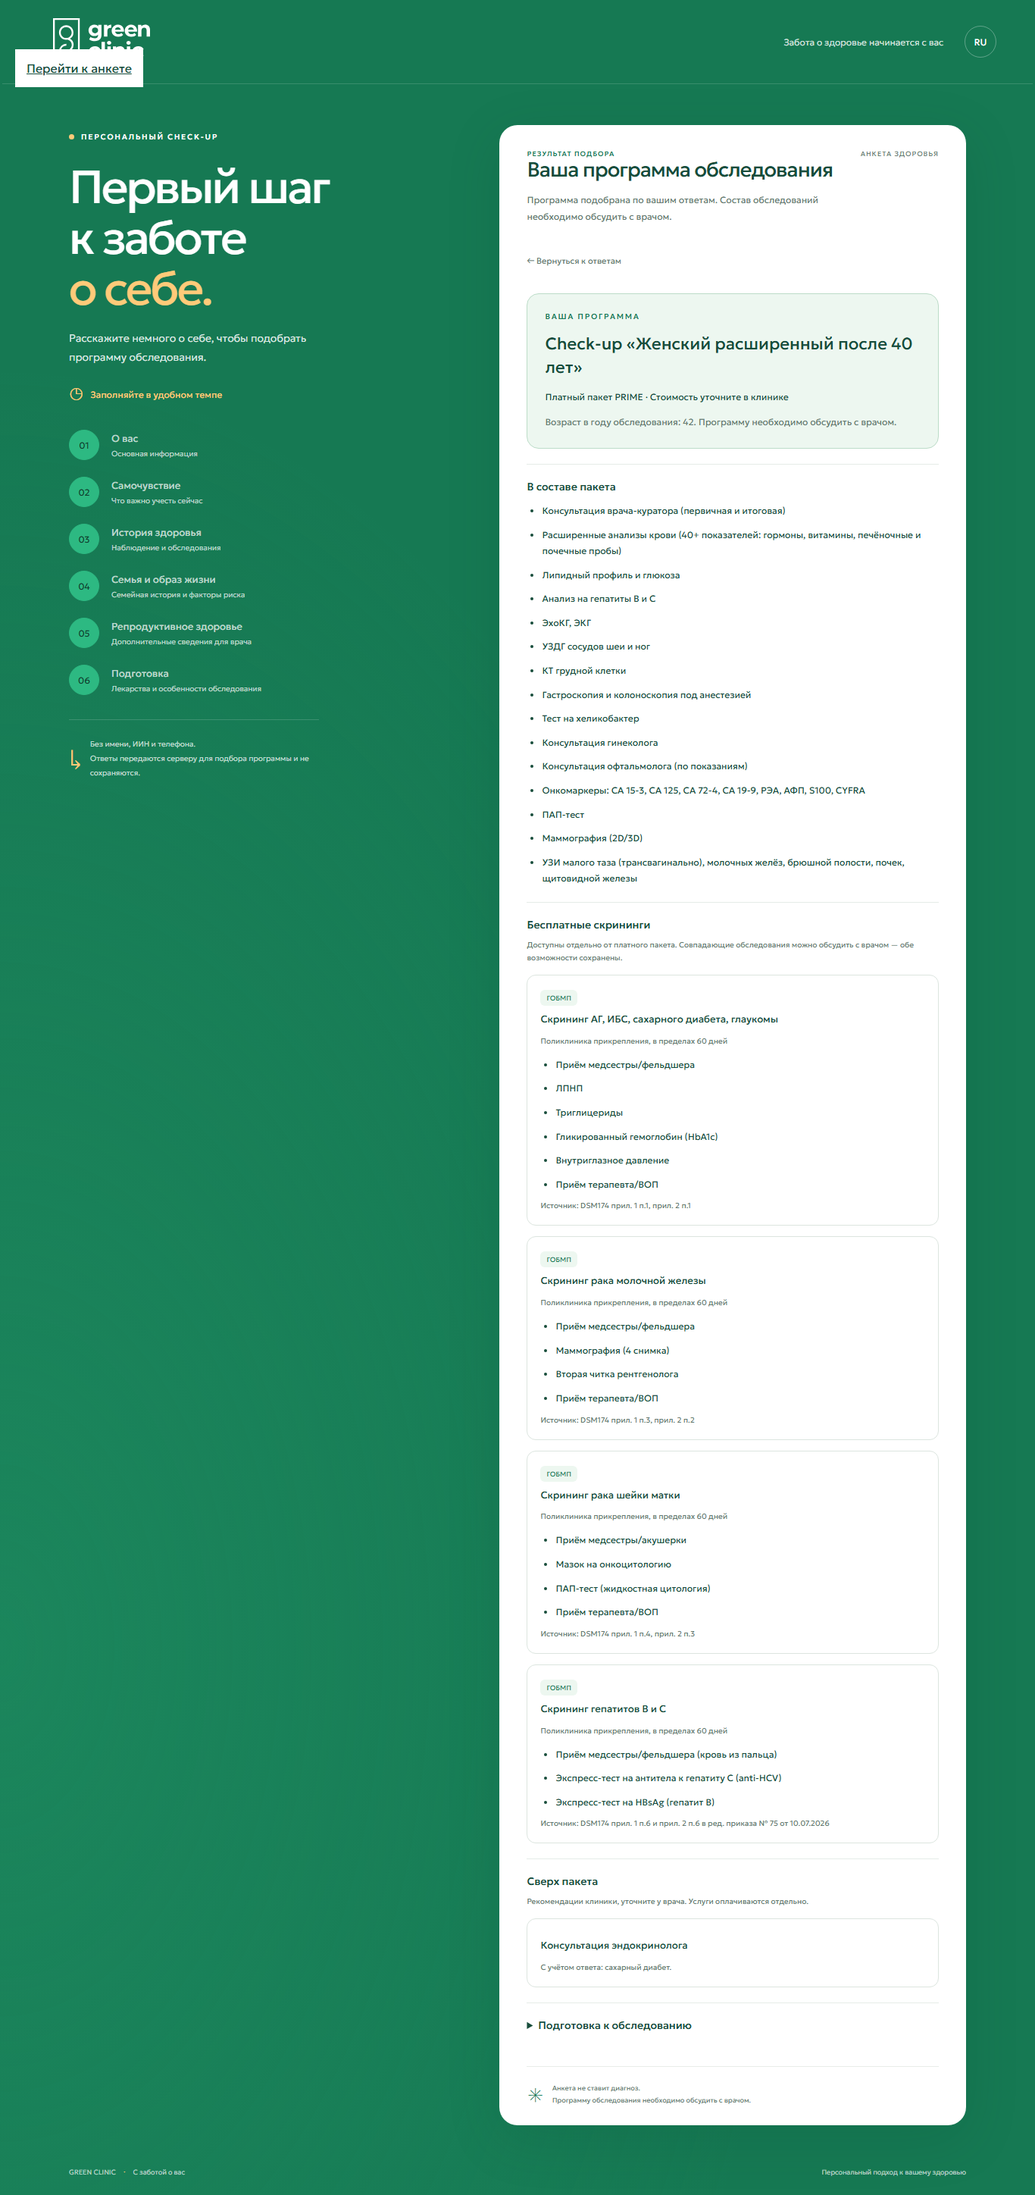
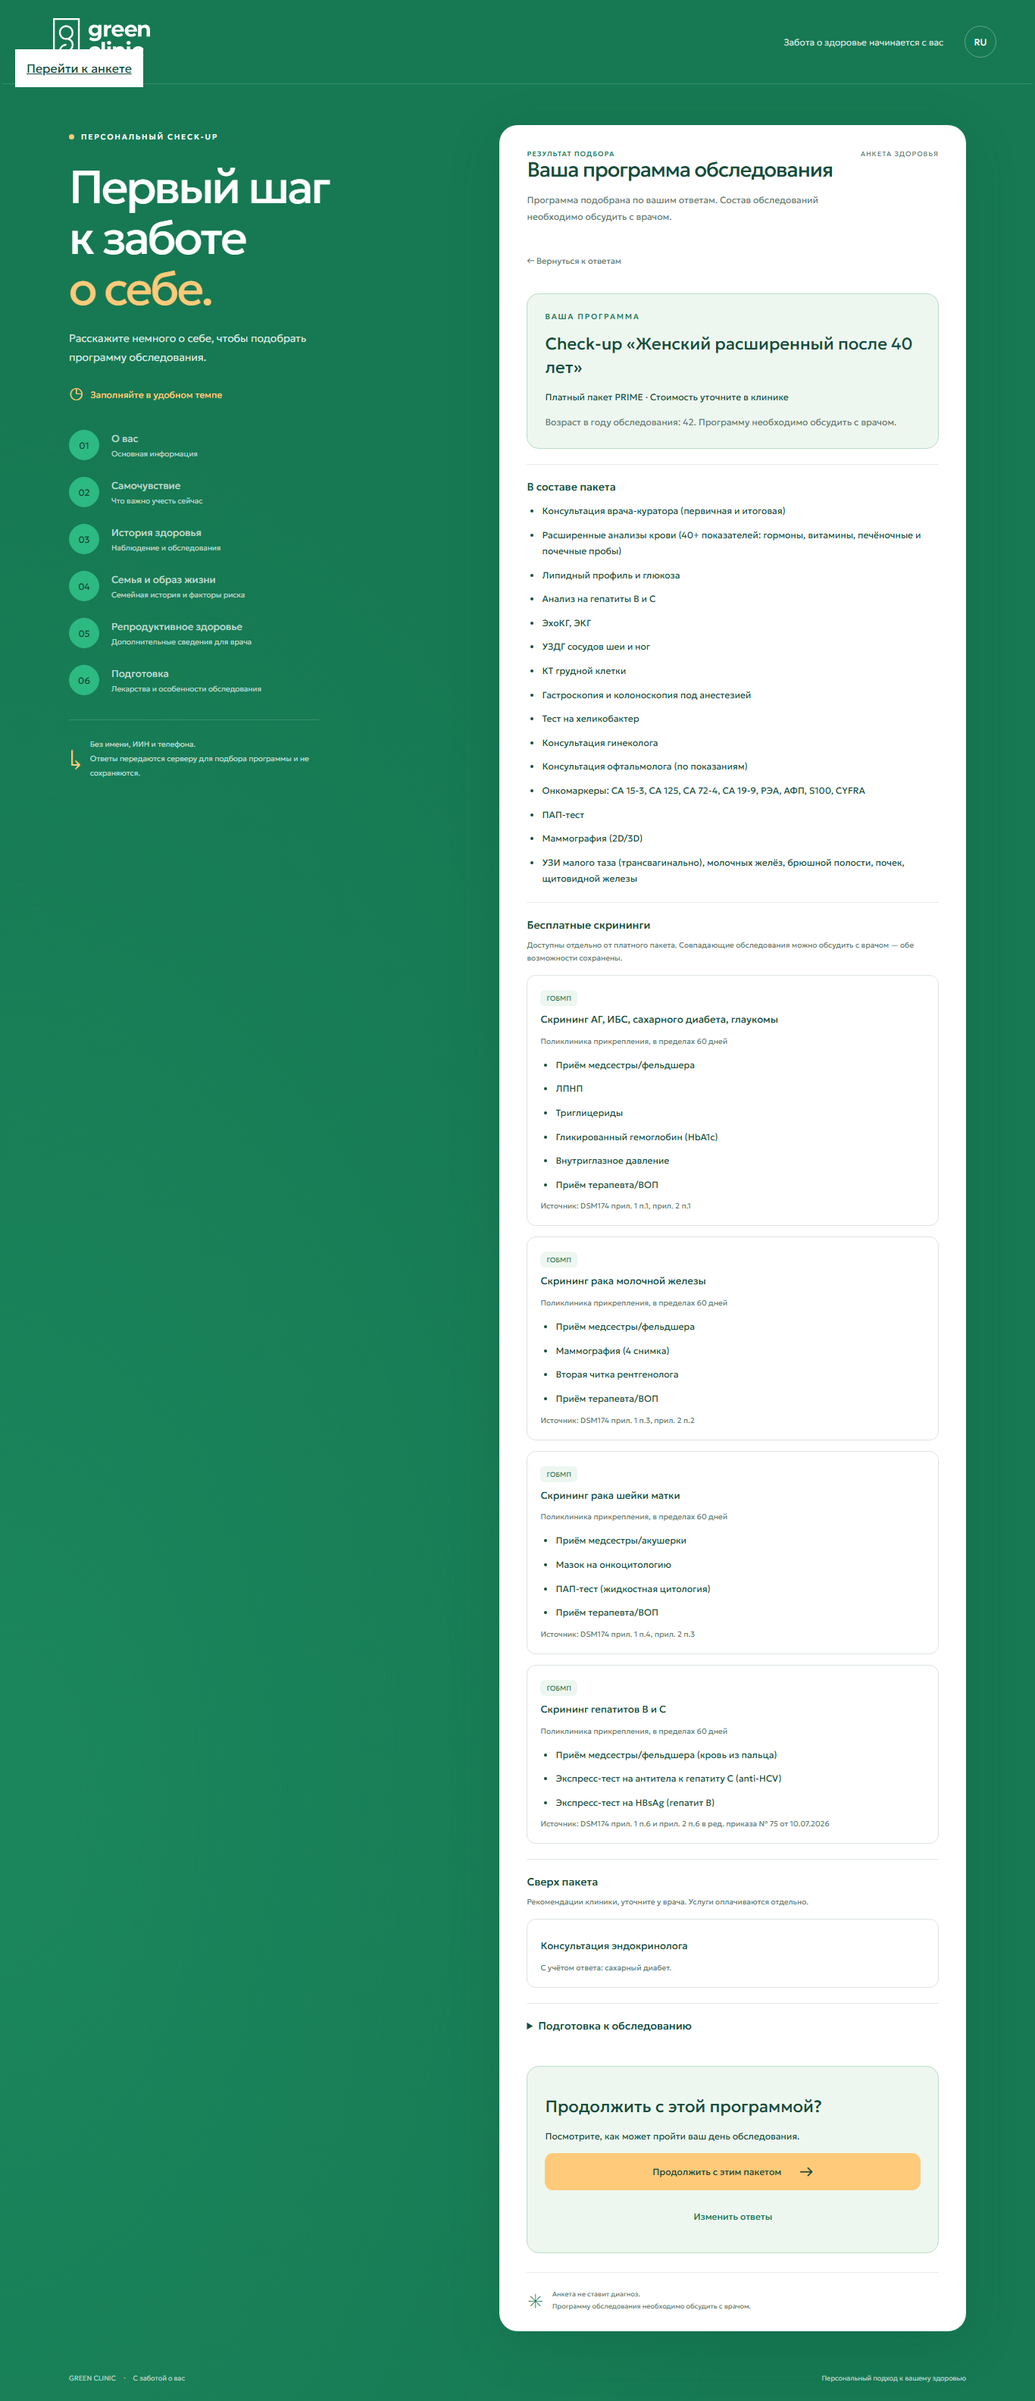
added the plan for the day after the package selection

Changed region(s): [[0.4919, 0.0, 0.9224, 0.9634], [0.0307, 0.0, 0.3075, 0.3419], [0.7687, 0.9634, 0.9224, 0.9945]]

diff --git a/app/static/app.js b/app/static/app.js
@@ -14,6 +14,7 @@ let fields = [];
 let answers = {};
 let step = 0;
 let submitting = false;
+let recommendation = null;
 const escapeHtml = (value) => String(value).replace(/[&<>"']/g, (c) => ({'&':'&amp;', '<':'&lt;', '>':'&gt;', '"':'&quot;', "'":'&#39;'}[c]));
 const year = () => Number(answers.checkup_year || new Date().getFullYear());
 const birthYear = () => answers.birth_date ? Number(answers.birth_date.slice(0, 4)) : undefined;
@@ -80,6 +81,10 @@ function renderField(field) {
   return `<${tag} class="field" data-name="${field.name}">${input}${hint ? `<p class="hint" id="${id}-hint">${escapeHtml(hint)}</p>` : ''}</${tag}>`;
 }
 function render(focus = false) {
+  recommendation = null;
+  $('itinerary-screen').hidden = true;
+  $('itinerary-content').replaceChildren();
+  $('package-confirmation').hidden = true;
   $('results-screen').hidden = true;
   $('recommendation').hidden = true;
   $('recommendation').replaceChildren();
@@ -168,6 +173,51 @@ $('results-back').addEventListener('click', () => {
   render(true);
   $('form-panel').scrollIntoView({ block: 'start' });
 });
+$('package-edit').addEventListener('click', () => $('results-back').click());
+$('itinerary-back').addEventListener('click', showResultsScreen);
+$('package-proceed').addEventListener('click', () => {
+  if (!recommendation?.package || recommendation.red_flags.length || !recommendation.itinerary?.length) return;
+  const data = recommendation;
+  const matchesExams = (instruction, exams) => exams.some((exam) => instruction.match.some((word) => exam.toLocaleLowerCase('ru').includes(word.toLocaleLowerCase('ru'))));
+  const preparation = (data.preparation || []).filter((instruction) => matchesExams(instruction, data.package.exams));
+  const advancePreparation = preparation.filter((instruction) => ['now', 'eve'].includes(instruction.day));
+  $('itinerary-content').innerHTML = `<div class="package-card"><span class="eyebrow">ВЫ ВЫБРАЛИ</span><h3>${escapeHtml(data.package.name)}</h3><p>Маршрут включает обследования выбранного пакета. Бесплатные скрининги и услуги сверх пакета согласуются отдельно.</p></div>` +
+    (preparation.length ? '<p class="prep-timing-note">Подготовьтесь до визита: инструкции указаны ниже и у соответствующих этапов. Время процедур и подготовки согласуйте с клиникой — часы в этом маршруте примерные.</p>' : '') +
+    (advancePreparation.length ? `<section class="advance-preparation" aria-labelledby="advance-preparation-title"><h3 id="advance-preparation-title">Что сделать заранее</h3>${renderPreparation(advancePreparation)}</section>` : '') +
+    '<ol class="day-route">' + data.itinerary.map((stop, index) => {
+      const instructions = preparation.filter((instruction) => instruction.day === 'after'
+        ? index === data.itinerary.length - 1 : matchesExams(instruction, stop.exams));
+      return `<li class="route-stop"><span class="route-time">${escapeHtml(stop.time)}</span><div><h3>${escapeHtml(stop.title)}</h3><p class="route-location">${escapeHtml(stop.location)}</p>${renderPreparation(instructions)}${stop.exams.length ? `<ul class="exam-list">${stop.exams.map((exam) => `<li>${escapeHtml(exam)}</li>`).join('')}</ul>` : ''}${stop.note ? `<p class="hint">${escapeHtml(stop.note)}</p>` : ''}</div></li>`;
+    }).join('') + '</ol>';
+  $('results-screen').hidden = true;
+  $('itinerary-screen').hidden = false;
+  $('step-counter').textContent = 'ВАШ ДЕНЬ В КЛИНИКЕ';
+  $('step-title').textContent = 'Маршрут на один день';
+  $('step-description').textContent = 'Примерный план посещения по выбранной программе обследования.';
+  focusScreen();
+});
+
+function renderPreparation(instructions) {
+  const timing = {now: 'Заранее · обсудите с врачом', eve: 'Накануне визита', morning: 'До процедуры', after: 'После процедуры'};
+  return instructions.map((instruction) => `<section class="preparation-card" data-preparation="${escapeHtml(instruction.id)}"><span class="prep-label">${escapeHtml(timing[instruction.day] || 'Подготовка')}</span><h4>${escapeHtml(instruction.title)}</h4><p>${escapeHtml(instruction.text)}</p></section>`).join('');
+}
+
+function focusScreen() {
+  $('step-title').focus();
+  $('form-panel').scrollIntoView({ block: 'start' });
+}
+
+function showResultsScreen() {
+  form.hidden = true;
+  $('review').hidden = true;
+  $('itinerary-screen').hidden = true;
+  $('results-screen').hidden = false;
+  document.querySelector('.progress-track').hidden = true;
+  $('step-counter').textContent = 'РЕЗУЛЬТАТ ПОДБОРА';
+  $('step-title').textContent = 'Ваша программа обследования';
+  $('step-description').textContent = 'Программа подобрана по вашим ответам. Состав обследований необходимо обсудить с врачом.';
+  focusScreen();
+}
 function collectInput() {
   const payload = {};
   for (const field of fields.filter(visible)) {
@@ -225,17 +275,11 @@ async function submitRecommendation() {
     if (!response.ok || data.error) throw new Error(data.error || 'Не удалось подобрать программу. Попробуйте снова.');
     if (!Array.isArray(data.items) || !Array.isArray(data.red_flags)) throw new Error('Сервер вернул неполный результат. Попробуйте снова.');
     renderRecommendation(data);
+    recommendation = data;
+    $('package-confirmation').hidden = !data.package || data.red_flags.length > 0 || !data.itinerary?.length;
     $('recommend-status').textContent = 'Ответ сервера получен.';
     button.textContent = 'Подобрать ещё раз';
-    form.hidden = true;
-    $('review').hidden = true;
-    $('results-screen').hidden = false;
-    document.querySelector('.progress-track').hidden = true;
-    $('step-counter').textContent = 'РЕЗУЛЬТАТ ПОДБОРА';
-    $('step-title').textContent = 'Ваша программа обследования';
-    $('step-description').textContent = 'Программа подобрана по вашим ответам. Состав обследований необходимо обсудить с врачом.';
-    $('step-title').focus();
-    $('form-panel').scrollIntoView({ block: 'start' });
+    showResultsScreen();
   } catch (error) {
     $('recommend-status').textContent = '';
     $('recommend-error').textContent = error.name === 'AbortError'

diff --git a/app/static/index.html b/app/static/index.html
@@ -57,6 +57,17 @@
       <section id="results-screen" hidden aria-label="Результат подбора программы">
         <button id="results-back" class="back-button" type="button">← Вернуться к ответам</button>
         <section id="recommendation" aria-label="Рекомендованная программа" hidden></section>
+        <div id="package-confirmation" class="package-card" hidden>
+          <h3>Продолжить с этой программой?</h3>
+          <p>Посмотрите, как может пройти ваш день обследования.</p>
+          <button id="package-proceed" class="primary-button recommend-button" type="button">Продолжить с этим пакетом <span aria-hidden="true">→</span></button>
+          <button id="package-edit" class="secondary-button" type="button">Изменить ответы</button>
+        </div>
+      </section>
+      <section id="itinerary-screen" hidden aria-label="Маршрут на один день">
+        <button id="itinerary-back" class="back-button" type="button">← Вернуться к программе</button>
+        <p class="review-notice">Пример маршрута: время и кабинеты условные. Это не запись на приём. Точный порядок и длительность обследований подтвердит клиника.</p>
+        <div id="itinerary-content"></div>
       </section>
       <div class="panel-note"><span aria-hidden="true">✳</span><p>Анкета не ставит диагноз.<br>Программу обследования необходимо обсудить с врачом.</p></div>
     </section>

diff --git a/app/static/style.css b/app/static/style.css
@@ -490,6 +490,79 @@ h2:focus {
 .recommend-button {
   width:100%;
 }
+.day-route {
+  list-style:none;
+  padding:0;
+  margin:24px 0;
+}
+.route-stop {
+  display:grid;
+  grid-template-columns:55px minmax(0,1fr);
+  gap:16px;
+  padding:0 0 25px;
+  margin-bottom:22px;
+  border-bottom:1px solid #e5ece7;
+}
+.route-time {
+  background:#edf7f0;
+  color:#167953;
+  padding:8px 5px;
+  border-radius:8px;
+  font-size:12px;
+  align-self:start;
+  text-align:center;
+}
+.route-stop h3 {
+  font-size:14px;
+  font-weight:500;
+  line-height:1.6;
+  margin:3px 0 8px;
+}
+.route-location {
+  font-size:11px;
+  color:var(--muted);
+  line-height:1.7;
+  margin:0;
+}
+#itinerary-content {
+  overflow-wrap:anywhere;
+}
+.advance-preparation>h3 {
+  font-size:16px;
+  font-weight:500;
+  margin:24px 0 14px;
+}
+.preparation-card {
+  background:#fff7e9;
+  border:1px solid #f0d2a4;
+  border-left:3px solid #d59c45;
+  border-radius:10px;
+  padding:15px;
+  margin:14px 0;
+}
+.prep-label {
+  display:block;
+  font-size:10px;
+  font-weight:500;
+  color:#79551f;
+  line-height:1.6;
+}
+.preparation-card h4 {
+  font-size:13px;
+  font-weight:500;
+  line-height:1.6;
+  margin:7px 0;
+}
+.preparation-card p,.prep-timing-note {
+  font-size:12px;
+  line-height:1.8;
+  margin:0;
+}
+.prep-timing-note {
+  padding:16px;
+  background:#edf7f0;
+  border-radius:10px;
+}
 .request-error {
   color:#852a20;
   font-size:12px;

diff --git a/app/itinerary.py b/app/itinerary.py
@@ -1,0 +1,36 @@
+"""Illustrative logistics only: times and locations are not clinic bookings."""
+import re
+
+
+def build_itinerary(package):
+    if not package:
+        return []
+    groups = [
+        ("Анализы", "Лаборатория · кабинет 101", 45, ("анализ", "кров", "липид", "глюкоз", "гормон", "витамин", "пробы", "гемоглобин", "пса", "ферритин", "онкомаркер", "гепатит")),
+        ("УЗИ и функциональная диагностика", "Отделение диагностики · кабинет 202", 90, ("узи", "уздг", "эхокг", "экг")),
+        ("Лучевая диагностика", "Отделение диагностики · кабинет 203", 45, ("кт", "маммограф", "рентген")),
+        ("Консультации специалистов", "Консультативное отделение · кабинет 301", 90, ("консультац", "осмотр", "заключение")),
+        ("Дополнительные обследования", "Кабинет уточнит координатор", 30, ()),
+        ("Эндоскопия", "Отделение эндоскопии · кабинет 204", 90, ("гастроскоп", "колоноскоп")),
+    ]
+    buckets = [[] for _ in groups]
+    for exam in package["exams"]:
+        text = exam.casefold()
+        # Endoscopy takes precedence for combined procedure descriptions.
+        index = next((i for i in [5, 0, 1, 2, 3]
+                      if any(bool(re.search(r"\bкт\b", text)) if word == "кт" else word in text
+                             for word in groups[i][3])), 4)
+        buckets[index].append(exam)
+    route = [{"time": "08:00", "title": "Встреча с координатором", "location": "Ресепшен · 1 этаж",
+              "exams": [], "note": "Уточнение программы и порядка посещения кабинетов."}]
+    minutes = 8 * 60 + 15
+    for (title, location, duration, _), exams in zip(groups, buckets):
+        if not exams:
+            continue
+        route.append({"time": f"{minutes // 60:02}:{minutes % 60:02}", "title": title,
+                      "location": location, "exams": exams, "note": ""})
+        minutes += duration
+    route.append({"time": f"{minutes // 60:02}:{minutes % 60:02}", "title": "Завершение визита",
+                  "location": "Ресепшен · 1 этаж", "exams": [],
+                  "note": "Уточните сроки готовности результатов и время итогового обсуждения с врачом."})
+    return route

diff --git a/app/test_recommendations.py b/app/test_recommendations.py
@@ -89,6 +89,25 @@ class RecommendationTests(unittest.TestCase):
         child = recommend(patient(10))
         self.assertNotIn("pr_colon", [item["id"] for item in child["preparation"]])
 
+    def test_itinerary_contains_only_selected_package_exams(self):
+        for age, changes in [(10, {}), (30, {}), (42, {"pregnant": "yes"}),
+                             (50, {"conditions": ["diabetes"]})]:
+            result = recommend(patient(age, **changes))
+            scheduled = [exam for stop in result["itinerary"] for exam in stop["exams"]]
+            self.assertCountEqual(scheduled, result["package"]["exams"])
+            times = [stop["time"] for stop in result["itinerary"]]
+            self.assertEqual(times, sorted(times))
+            self.assertEqual(result["itinerary"][-1]["title"], "Завершение визита")
+            if any("колоноскопия" in exam.lower() for exam in scheduled):
+                self.assertEqual(result["itinerary"][-2]["title"], "Эндоскопия")
+            for stop in result["itinerary"]:
+                if stop["title"] == "Лучевая диагностика":
+                    self.assertNotIn("Тест на хеликобактер", stop["exams"])
+
+    def test_no_itinerary_without_package(self):
+        self.assertEqual(recommend(patient(urgent="chest_pain"))["itinerary"], [])
+        self.assertEqual(recommend(patient(birth_date="2025-01-01", checkup_year=2025))["itinerary"], [])
+
 
 if __name__ == "__main__":
     unittest.main()

diff --git a/app/recommendations.py b/app/recommendations.py
@@ -5,6 +5,7 @@ from datetime import date
 from pathlib import Path
 
 from app.config.fields import FIELDS
+from app.itinerary import build_itinerary
 
 RULES = json.loads((Path(__file__).resolve().parents[1] / "spec" / "rules.json").read_text(encoding="utf-8"))
 
@@ -125,7 +126,7 @@ def recommend(payload):
     result = dict(age_year=age, package=None, items=[], screenings=[], additions=[],
                   not_eligible=[], red_flags=[], warnings=[], preparation=[], next_visit=[],
                   summary={"free_count": 0, "paid_count": 0}, needs_doctor_review=True,
-                  model_version="app-rules-1", error=None)
+                  model_version="app-rules-1", error=None, itinerary=[])
     if answers["urgent"] != "none":
         result["red_flags"] = ["При этих симптомах чекап не подходит. Звоните 103 или обратитесь к врачу сегодня."]
         return result
@@ -208,4 +209,5 @@ def recommend(payload):
         "free_count": sum(item["payment"].startswith("free_") for item in result["items"]),
         "paid_count": sum(item["payment"] == "paid_prime" for item in result["items"]),
     }
+    result["itinerary"] = build_itinerary(result["package"])
     return result

diff --git a/app/README.md b/app/README.md
@@ -36,6 +36,17 @@ The UI disables repeat submissions during loading, times out after 20 seconds,
 allows retry without losing answers and clears old results when answers are edited.
 Successful selection opens a separate results screen with the same recommendation
 contents. “Вернуться к ответам” returns to the editable review with answers intact.
+“Продолжить с этим пакетом” opens a separate “Маршрут на один день” screen.
+The server groups only the selected package's examinations into an illustrative
+day itinerary (`app/itinerary.py`). Times, durations and room numbers are generic
+demo data, clearly labeled in the UI; no appointment is booked. Free screenings
+and extra services are not silently added to the package itinerary. Users can
+return to the recommendation or change answers; resubmission builds a fresh route.
+Preparation from the existing rules is displayed in expanded, highlighted cards
+beside the relevant itinerary stops. Advance and previous-day preparation also
+appears above the itinerary; after-procedure guidance appears at the final stop.
+Only instructions matching the selected package are included, preserving answer
+conditions such as blood-thinner use. Demo times are not preparation deadlines.
 
 ## Extending the form
 
